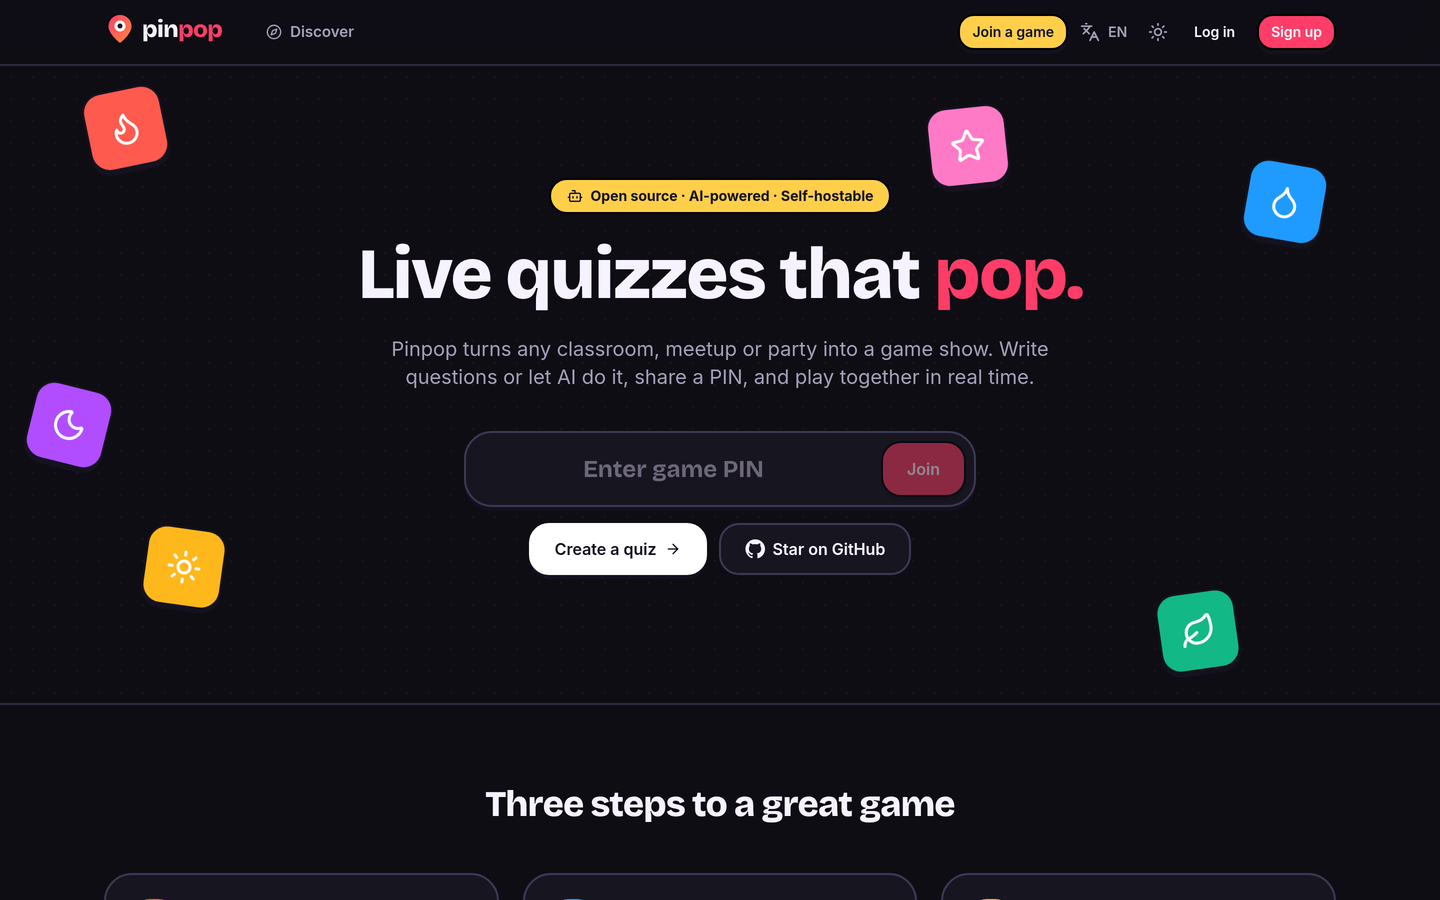
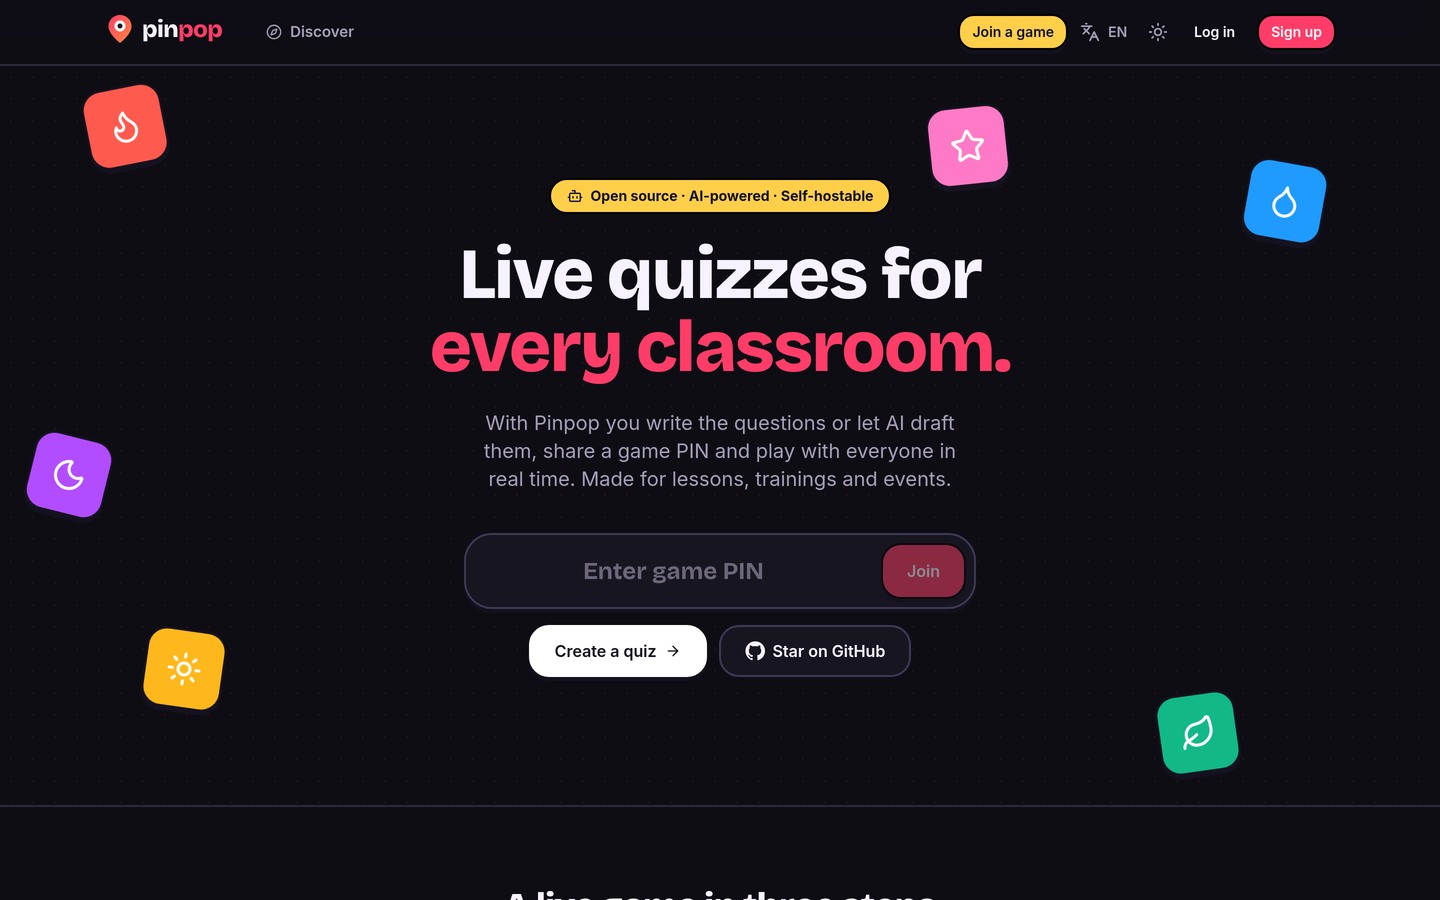
Use clearer, more professional wording in the interface
Replace playful phrases such as "Live quizzes that pop" with plain
language in English and Turkish, and refresh the landing screenshots.

diff --git a/frontend/index.html b/frontend/index.html
@@ -4,7 +4,7 @@
     <meta charset="UTF-8" />
     <meta name="viewport" content="width=device-width, initial-scale=1, viewport-fit=cover" />
     <meta name="theme-color" content="#ff3d68" />
-    <meta name="description" content="Pinpop — the open-source live quiz platform. Create quizzes, generate questions with AI and play together in real time." />
+    <meta name="description" content="Pinpop is an open-source live quiz platform for lessons, trainings and events. Create a quiz, share a PIN and play together in real time." />
     <link rel="icon" href="/favicon.svg" type="image/svg+xml" />
     <link rel="manifest" href="/manifest.webmanifest" />
     <link rel="apple-touch-icon" href="/icon-192.png" />
